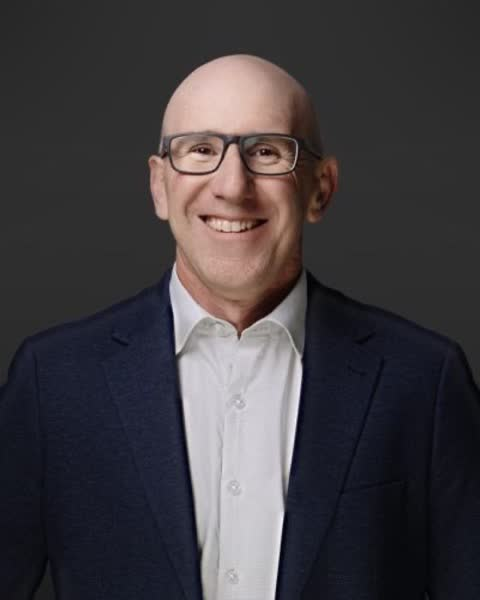
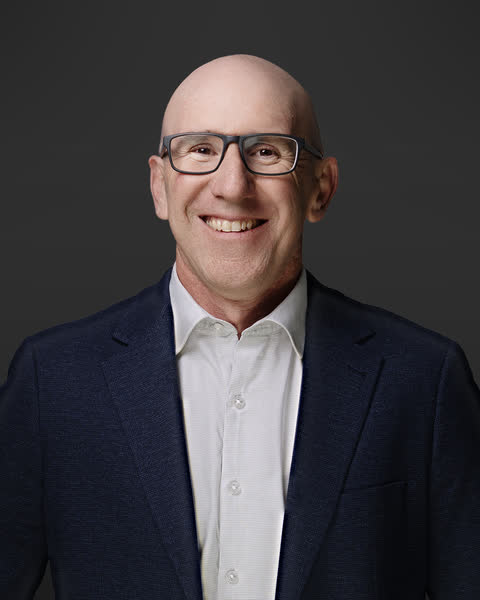
Identity lead: Walker black portrait rebuilt from the library export
The 480/800 files were made from a 400 px case-study copy and upscaled,
so the portrait read soft beside Alyssa. Now cut from
260812_Walker_L4-BlazerOpen_3692_BLK_4x5_1080x1350 (same frame and
crop), with a 1080w size added for high-density screens.

diff --git a/portraits/index.html b/portraits/index.html
@@ -195,7 +195,7 @@
         <figcaption class="caption"><strong>Athlete.</strong> Hockey ACT pathway squad, 2026.</figcaption>
       </figure>
       <figure>
-        <img src="/images/v2/walker-black-4x5-800.jpg" srcset="/images/v2/walker-black-4x5-480.jpg 480w, /images/v2/walker-black-4x5-800.jpg 800w" sizes="(min-width: 64em) 27rem, (min-width: 40em) 46vw, 50vw" width="800" height="1000" alt="Dr Anthony Walker, open blazer, studio black" fetchpriority="high" decoding="async">
+        <img src="/images/v2/walker-black-4x5-800.jpg" srcset="/images/v2/walker-black-4x5-480.jpg 480w, /images/v2/walker-black-4x5-800.jpg 800w, /images/v2/walker-black-4x5-1080.jpg 1080w" sizes="(min-width: 64em) 27rem, (min-width: 40em) 46vw, 50vw" width="1080" height="1350" alt="Dr Anthony Walker, open blazer, studio black" fetchpriority="high" decoding="async">
         <figcaption class="caption"><strong>Leader.</strong> Dr Anthony Walker, Optimised Human Performance.</figcaption>
       </figure>
     </div>
